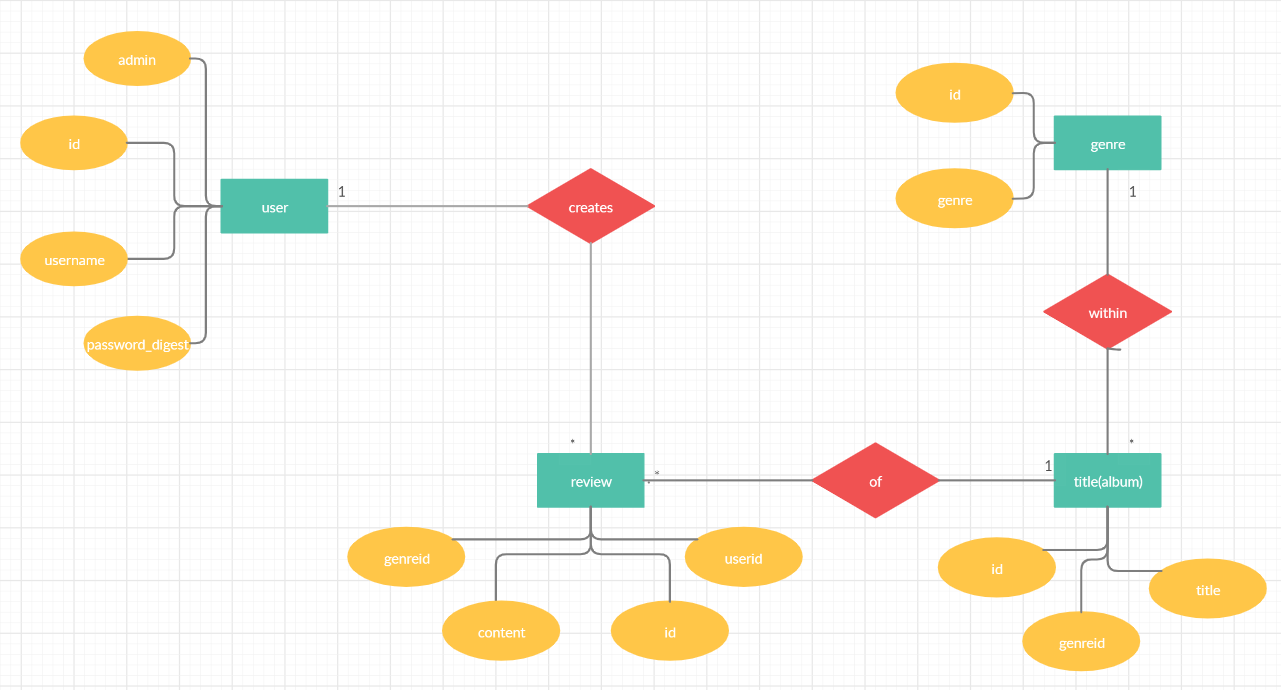
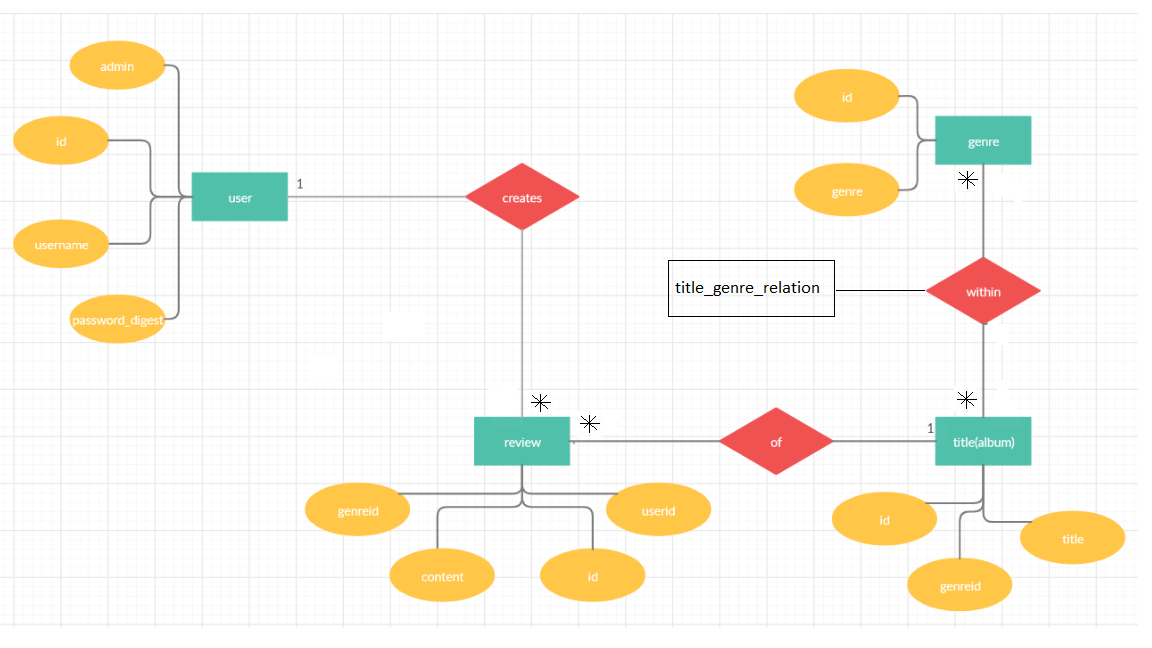
added imgs

Changed region(s): [[0.0, 0.0309, 1.0, 0.9877], [0.0625, 0.4321, 0.1562, 0.5556], [0.5625, 0.4321, 0.7188, 0.463]]

diff --git a/code/app.rb b/code/app.rb
@@ -119,11 +119,22 @@ end
 # @see Model#add_review
 post("/reviews/new") do
     title = params[:title]
-    titleid = get_titleid(title)
     genre_temp = params[:genre]
     genre_arr = genre_temp.split(', ')
     review = params[:review]
+    title_check = get_titles()
+    title_matches = []
+    title_check.each do |element|
+        title_matches << /#{title}/.match(element["title"])
+    end
+    if !title_matches.any?
+        add_title(title)
+    end
+    titleid = get_titleid(title)
+    p title
+    p titleid
     genre_check = get_genres()
+    relations_check = get_relations(titleid)
     genre_arr.each do |genre|
         genre_matches = []
         genre_check.each do |element|
@@ -133,17 +144,15 @@ post("/reviews/new") do
             add_genre(genre)
         end
         genreid = get_genreid(genre)
-        add_relation(titleid, genreid)
+        relation_matches = []
+        relations_check.each do |item|
+            relation_match = /#{genreid.to_s}/.match(item["genreid"].to_s)
+            relation_matches << relation_match
+        end
+        if !relation_matches.any?
+            add_relation(titleid, genreid)
+        end
     end
-    title_check = get_titles()
-    title_matches = []
-    title_check.each do |element|
-        title_matches << /#{title}/.match(element["title"])
-    end
-    if !title_matches.any?
-        add_title(title, genreid)
-    end
-    
     userid = get_userid(session[:username])
     add_review(review, userid, titleid)
     redirect("/reviews")

diff --git a/code/model.rb b/code/model.rb
@@ -42,6 +42,11 @@ module Model
         db.execute("SELECT genre FROM genres")
     end
 
+    def get_relations(titleid)
+        db = connect_db("db/database.db")
+        db.execute("SELECT genreid FROM relations WHERE titleid = ?", titleid)
+    end
+
     def add_genre(genre)
         db = connect_db("db/database.db")
         db.execute("INSERT INTO genres (genre) VALUES (?)", genre)
@@ -63,9 +68,9 @@ module Model
     end
 
     
-    def add_title(title, genreid)
+    def add_title(title)
         db = connect_db("db/database.db")
-        db.execute("INSERT INTO titles (title, genreid) VALUES (?, ?)", title, genreid)
+        db.execute("INSERT INTO titles (title) VALUES (?)", title)
     end
 
     def get_titleid(title)
@@ -112,7 +117,6 @@ module Model
     end
 
     def test_new_username(username)
-        p username
         user_check = get_userid(username)
         if !user_check.any? 
             return true
@@ -166,7 +170,8 @@ module Model
 
     def delete_user(userid)
         db = connect_db("db/database.db")
-        db.execute("DELETE FROM (users, reviews) WHERE userid = ?", userid)
+        db.execute("DELETE FROM users WHERE userid = ?", userid)
+        db.execute("DELETE FROM reviews WHERE userid = ?", userid)
     end
 
 end
